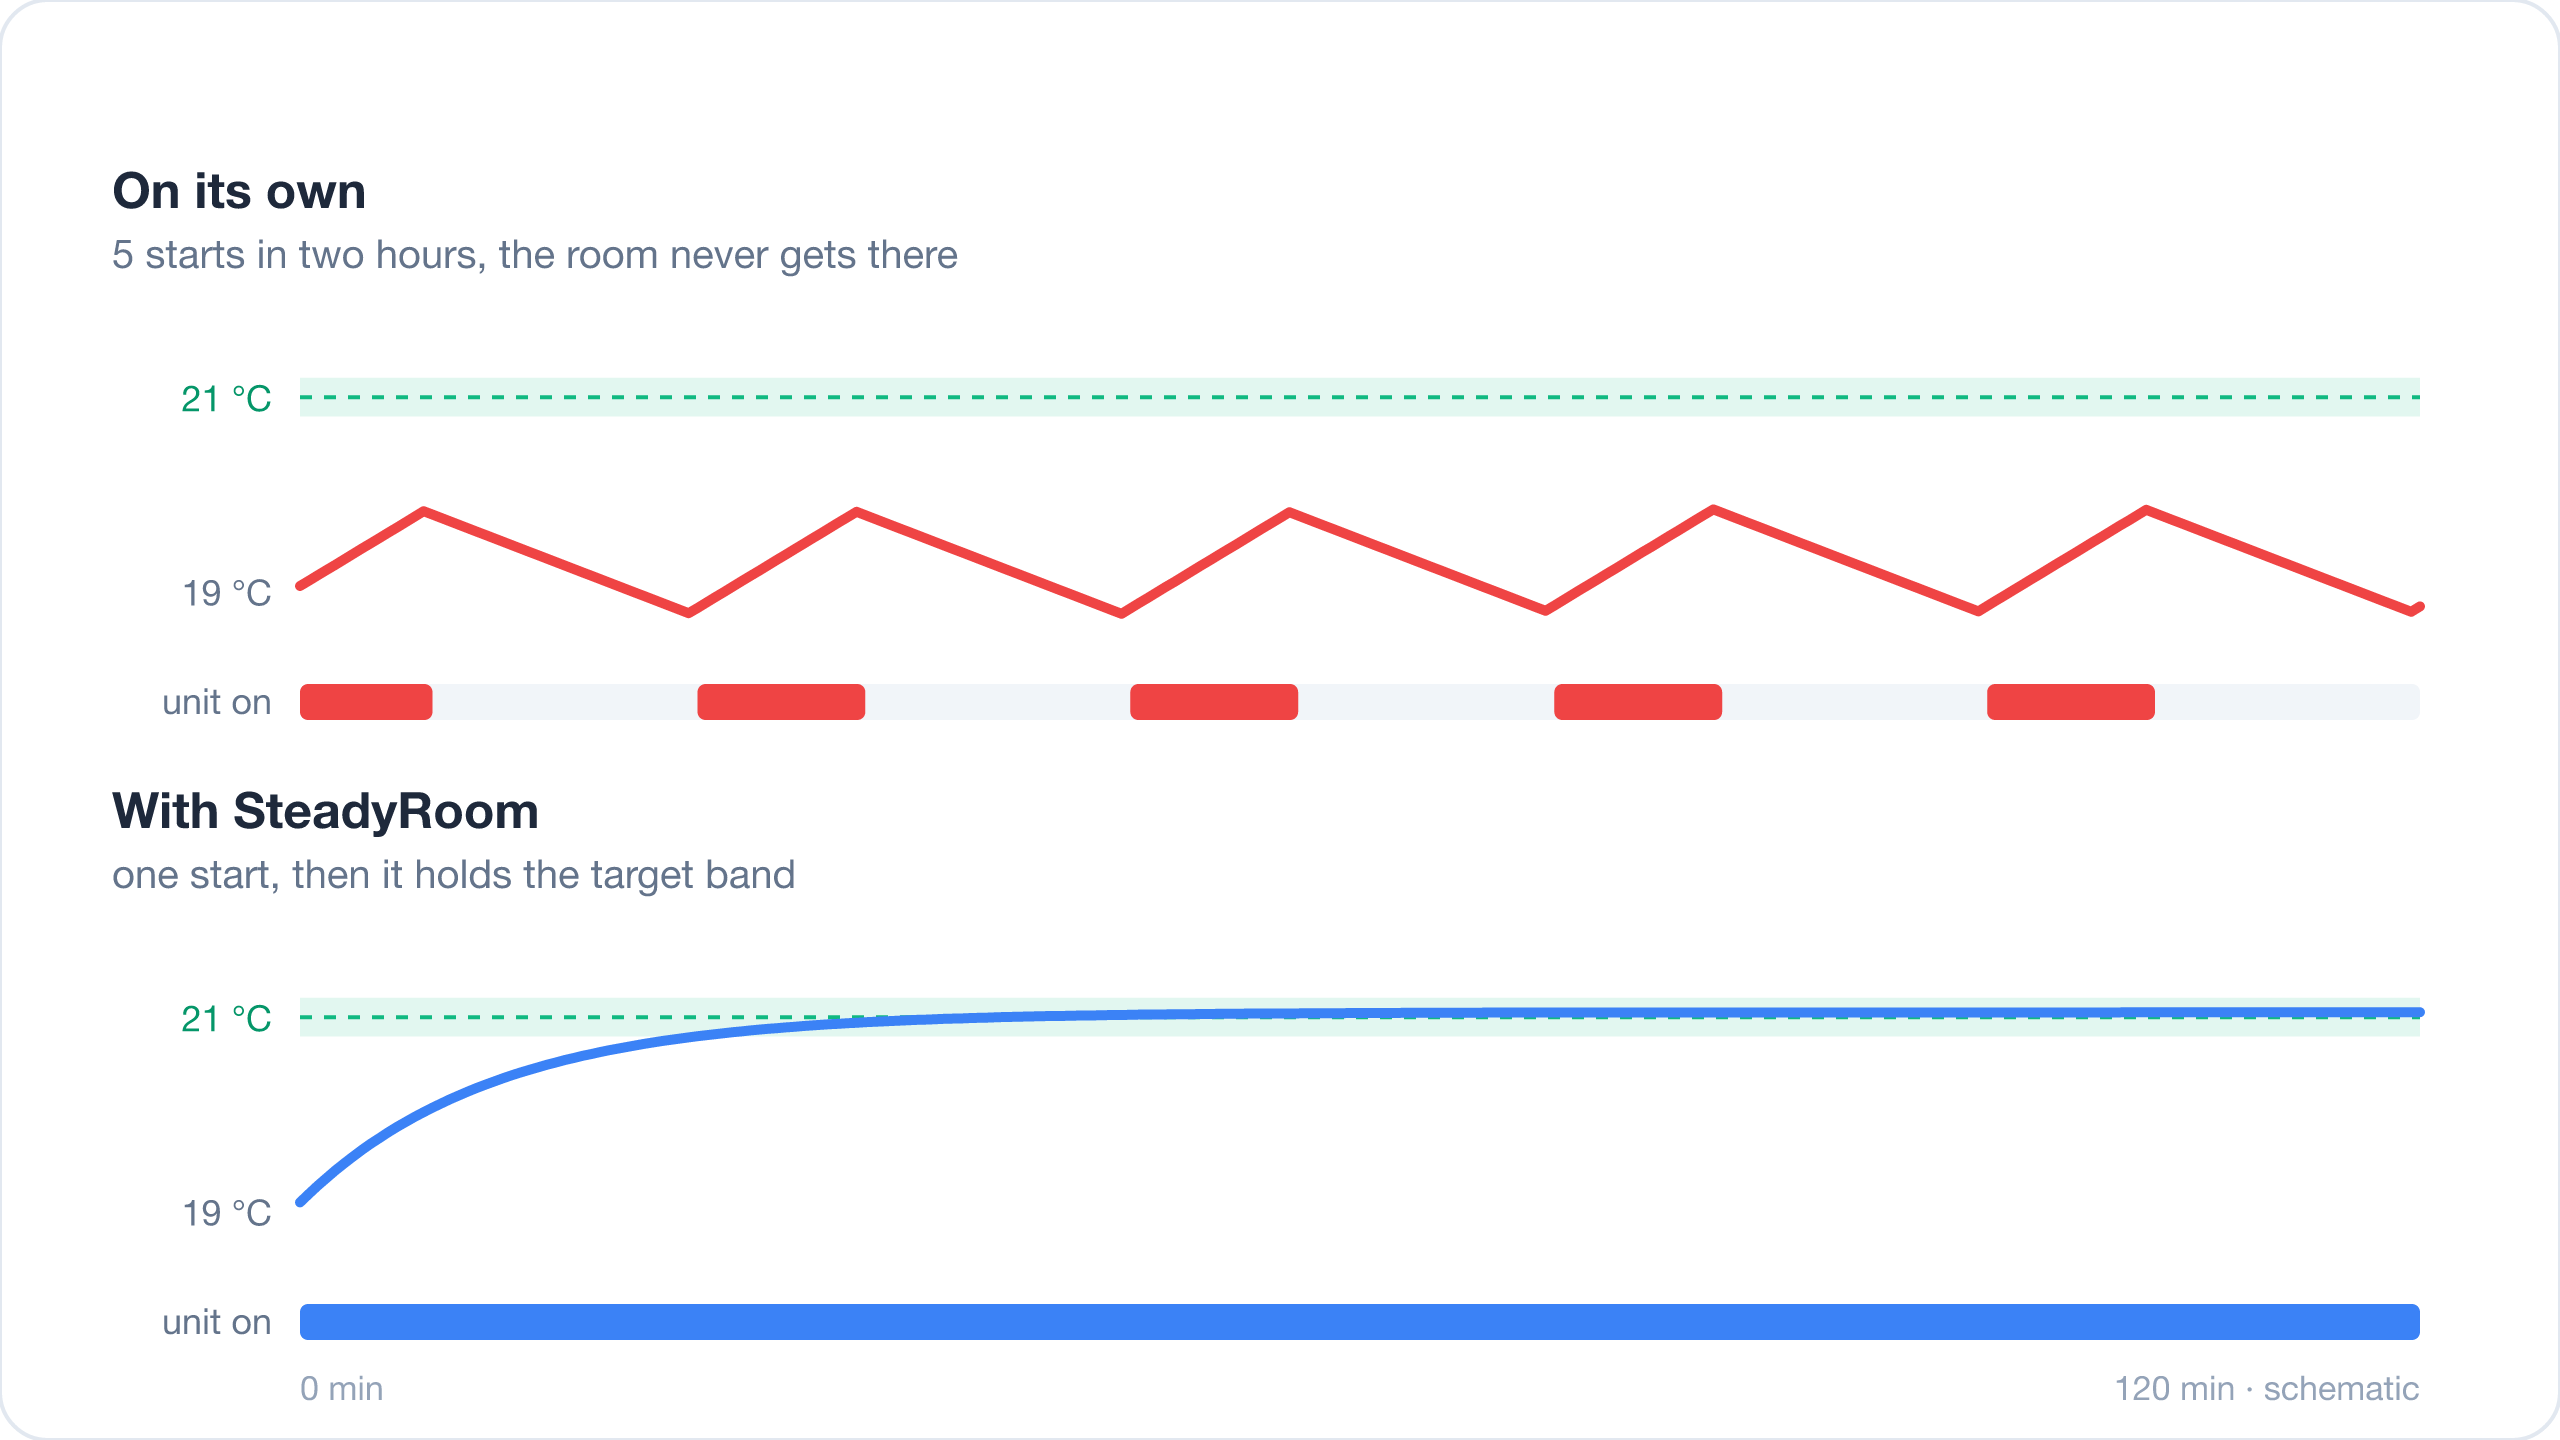
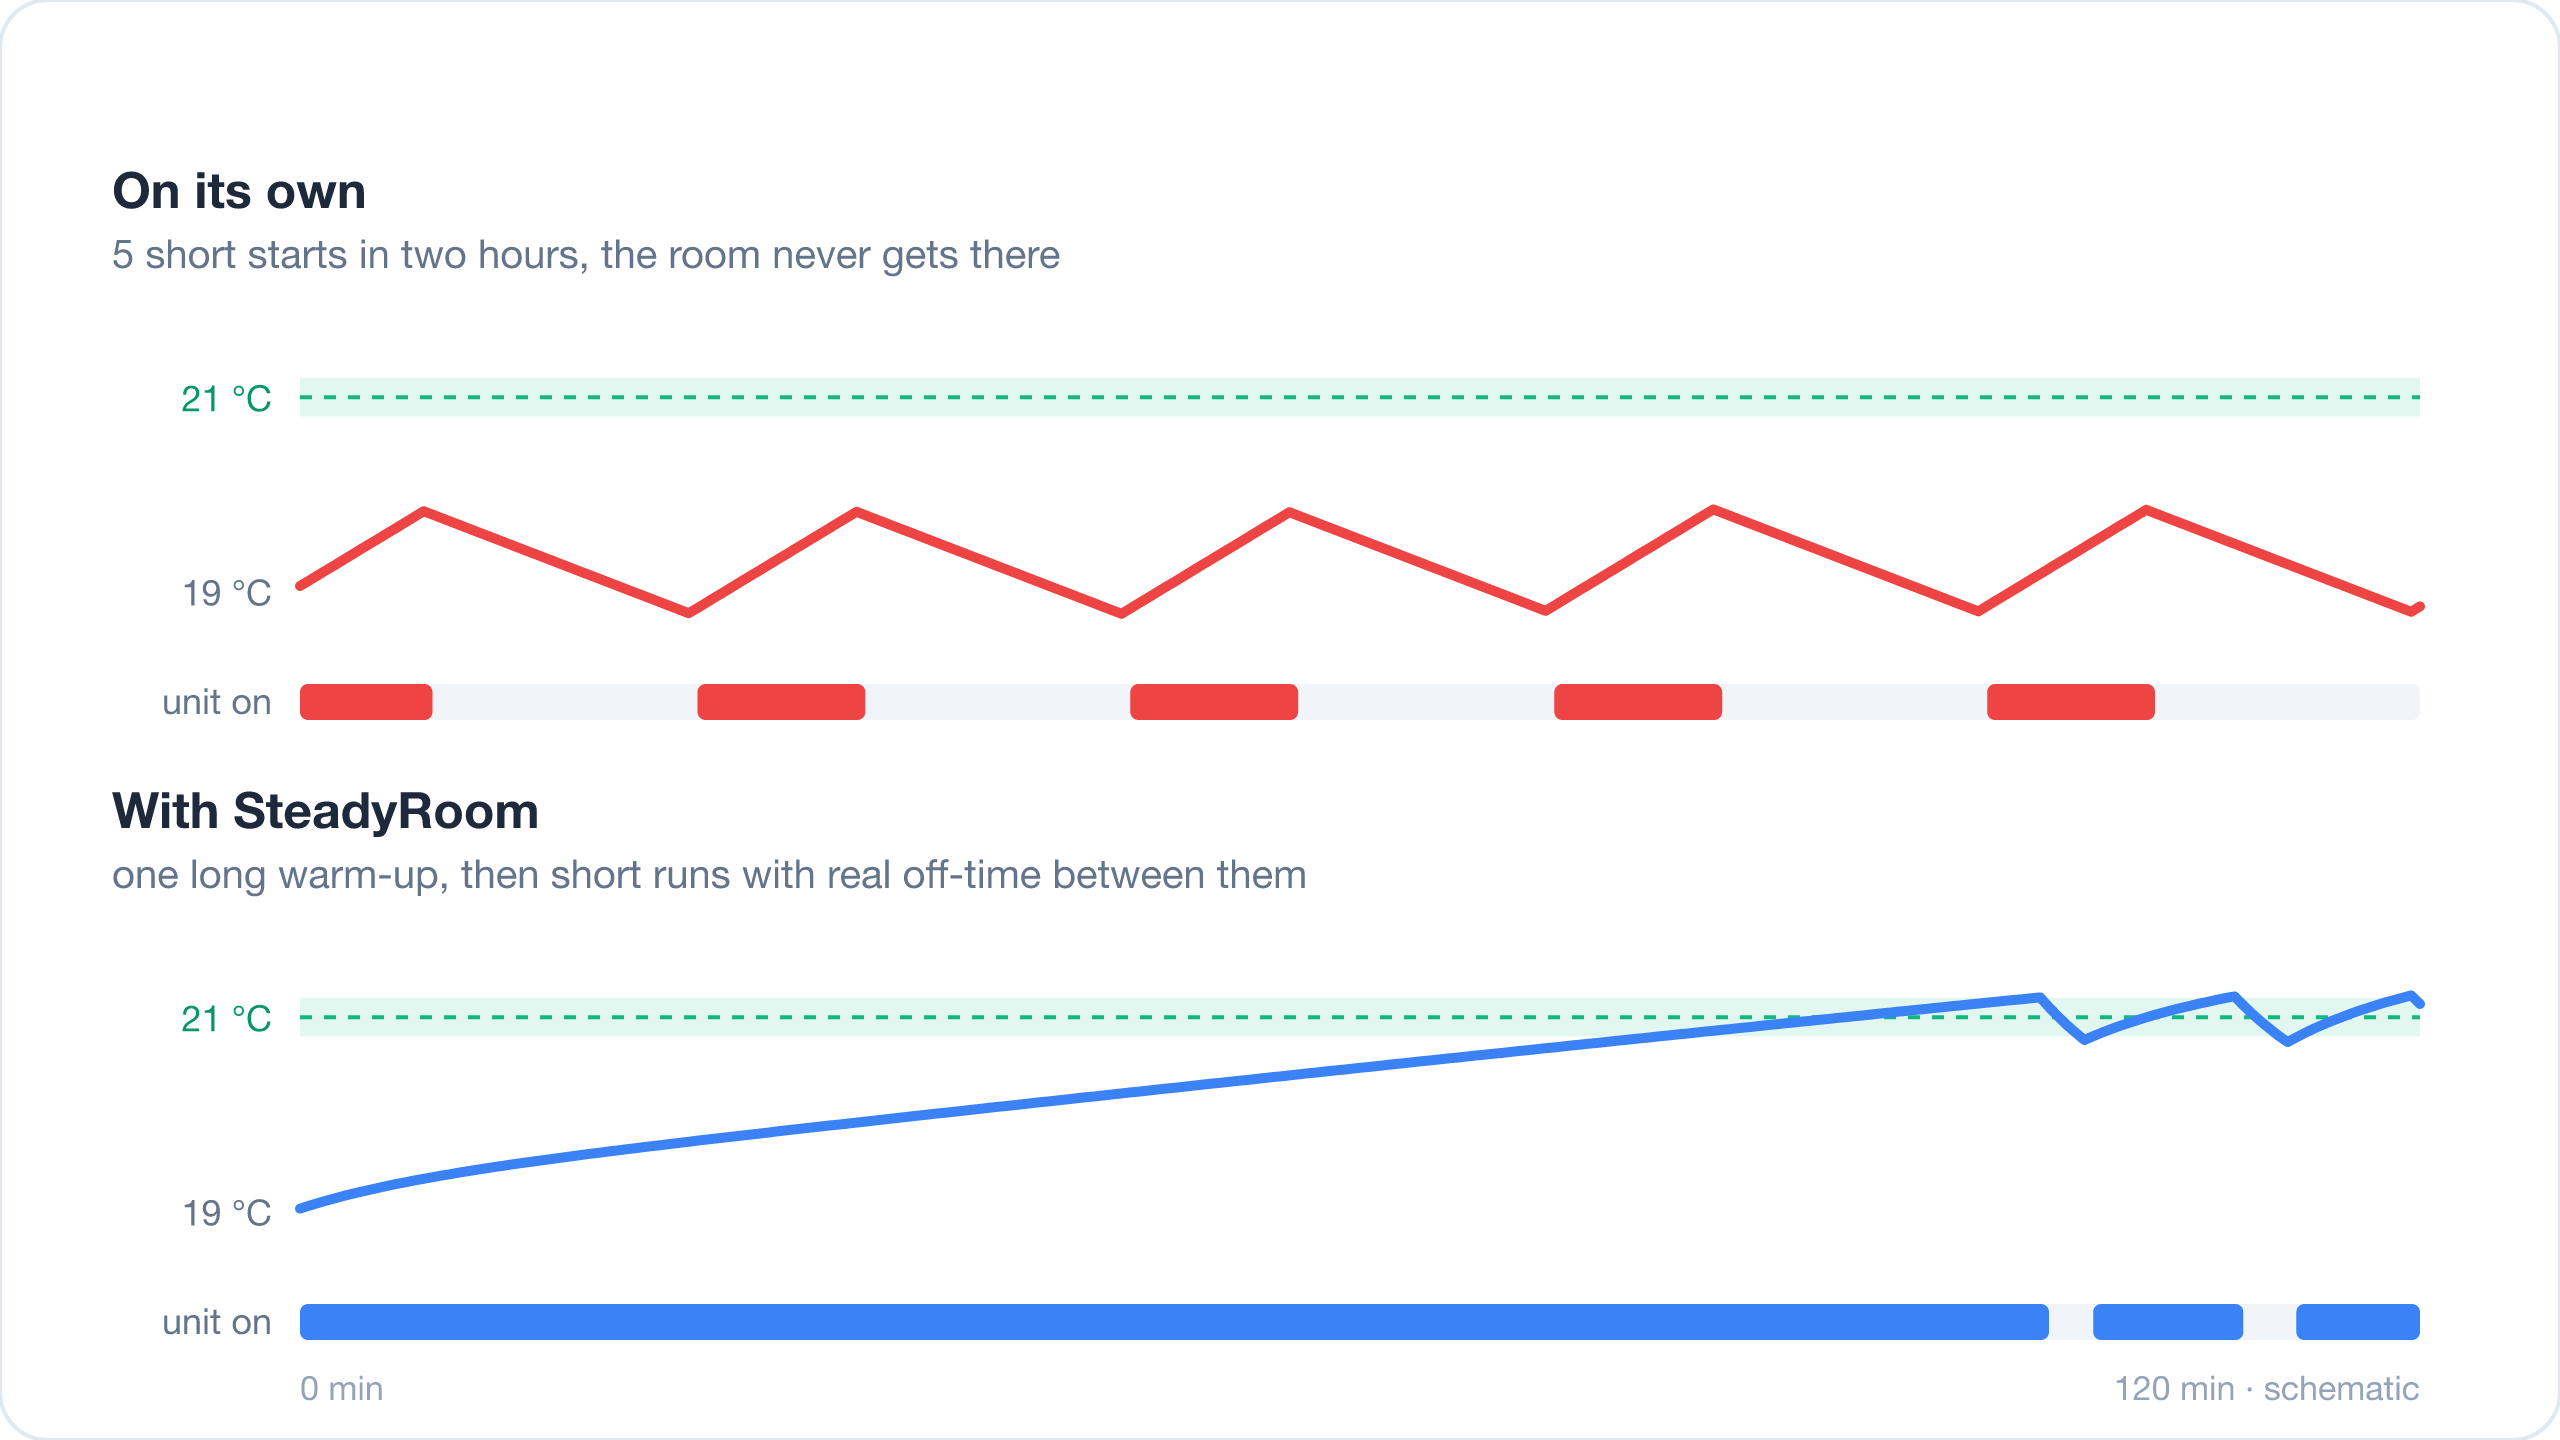
docs: describe fewer, real runs instead of no cycling
SteadyRoom reduces short cycling; it does not remove it. The README and
the before/after graphic now show a long warm-up followed by short runs
with real off-time, which matches what the live rooms do.

diff --git a/README.md b/README.md
@@ -7,10 +7,10 @@
 [![Validate](https://github.com/b80k/steadyroom/actions/workflows/validate.yml/badge.svg)](https://github.com/b80k/steadyroom/actions/workflows/validate.yml)
 [![License: MIT](https://img.shields.io/badge/license-MIT-3B82F6)](LICENSE)
 
-**Your heat pump switches on, off, on, off, and the sofa never gets warm? SteadyRoom fixes that.** It stops short cycling of air conditioners whose built-in sensor sits in the wrong place, and turns them into a calm, precise room thermostat.
+**Your heat pump switches on, off, on, off, and the sofa never gets warm? SteadyRoom fixes that.** It cuts the short cycling of air conditioners whose built-in sensor sits in the wrong place down to fewer, real runs, and turns them into a calm, precise room thermostat.
 
 - 🎯 **Measures where you live**: decides from a sensor in the middle of the room, not from the unit's housing.
-- 🌊 **Runs gently instead of cycling**: one steady run to the target instead of a stop-and-go every few minutes.
+- 🌊 **Fewer, real runs**: the unit runs until the room is in the band and is then really off, instead of flicking between idle and running every few minutes.
 - 🧩 **One entity, no automation spaghetti**: works with the standard Thermostat and Tile cards, all settings on the device page.
 - 🛡 **Safe to try**: every new device starts in *Observe only* and touches nothing until you let it.
 
@@ -24,7 +24,7 @@ Most split units measure the temperature at their own housing, high up on the wa
 
 ![Room sensor to SteadyRoom to your unit](https://raw.githubusercontent.com/b80k/steadyroom/main/docs/images/how-it-works.png)
 
-SteadyRoom puts a virtual thermostat on top of your unit. It decides heat, cool or off from a sensor in the middle of the room, and it gives the unit a setpoint relative to the unit's *own* reading. The unit therefore always sees a clear, steady demand and keeps running gently until the room itself is where you want it.
+SteadyRoom puts a virtual thermostat on top of your unit. It decides heat, cool or off from a sensor in the middle of the room, and it gives the unit a setpoint relative to the unit's *own* reading. The unit therefore sees a clear demand and keeps running until the room itself is where you want it. Then it really switches off and stays off until the room needs it again.
 
 ![Schematic: on its own the unit starts five times in two hours and the room stays below target; with SteadyRoom it starts once and holds the target band](https://raw.githubusercontent.com/b80k/steadyroom/main/docs/images/before-after.png)
 
